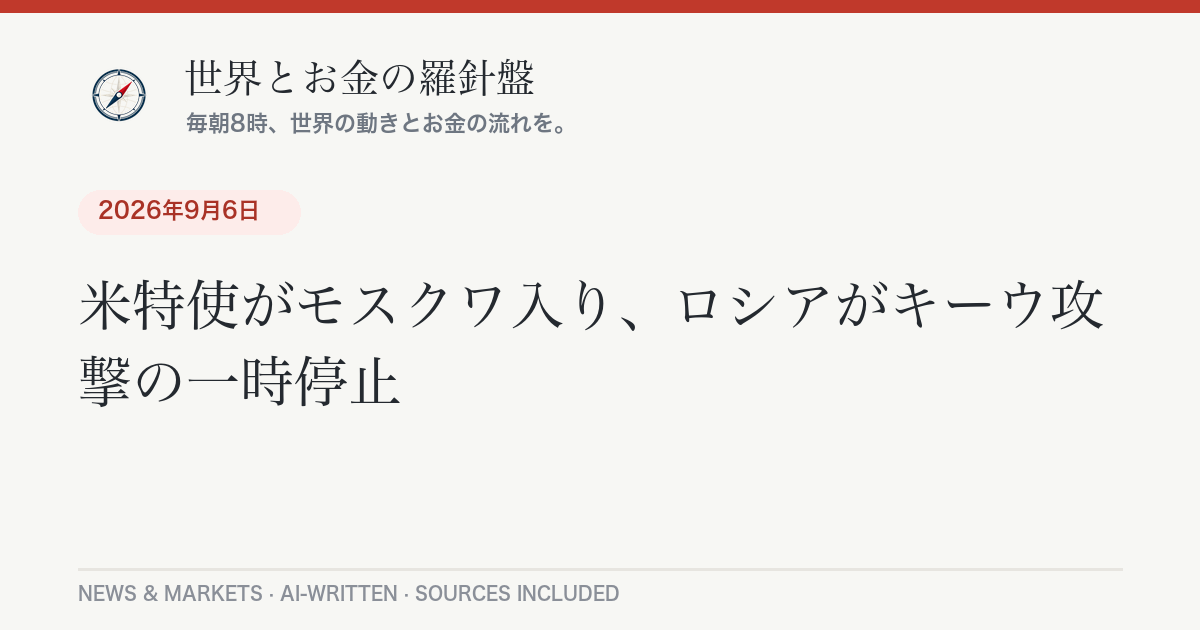
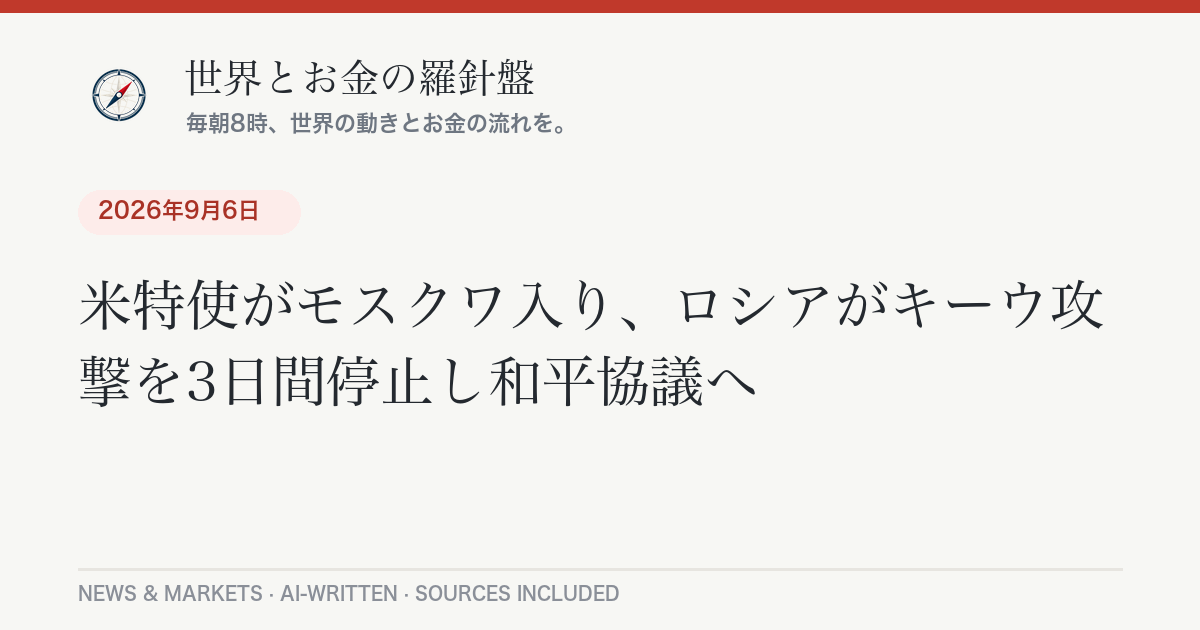
Daily briefing 2026-09-08

Changed region(s): [[0.0925, 0.5429, 0.6167, 0.6635], [0.6167, 0.6032, 0.6475, 0.6333]]

diff --git a/_posts/2026-09-08-daily-briefing.md b/_posts/2026-09-08-daily-briefing.md
@@ -1,0 +1,103 @@
+---
+layout: post
+lang: ja
+title: "日経平均1378円高で6万6400円台、AI半導体株が急伸｜9月8日のニュースとお金"
+date: 2026-09-08 07:46:00 +0900
+categories: [ニュース, 経済]
+headline: "日経平均1378円高で6万6400円台、AI半導体株が急伸"
+permalink: /2026/09/08/daily-briefing/
+---
+
+## 今日のポイント
+
+週明けの東京市場は、AI・半導体関連株がまとめて買われ、日経平均が一日で1378円も上がりました。上げの主役は一部の値がさハイテク株に偏っていて、実は値下がりした銘柄のほうが多かったのが実態です。一方で海の向こうでは、8月の米雇用がふたを開けたら予想の3倍近い伸びで、「アメリカの利下げどころか、次は利上げか」という見方が急に強まっています。中東ではイランによるクウェートの米軍基地への攻撃が続き、原油が上値を試す展開。株高・原油高・金高が同時に起きる、少し落ち着かない朝です。
+
+## 今日の羅針盤（Compass Insight）
+
+きょうの相場を貫くのは「AIブームの綱引き」です。日本株は、米国のメモリー半導体増産報道をきっかけに、キオクシアやソフトバンクグループといったAI関連の代表格へ資金が集中しました。ただ、この上げは全体の底上げではなく「一部の大型株だけが走る」いびつな形で、東証プライムでは値下がり銘柄のほうが多いという事実は覚えておきたいところです。相場の勢いと、あなたの持っている投信・個別株の中身は必ずしも一致しません。
+
+家計への影響で見ておきたいのは二つ。ひとつは為替で、ドル円は1ドル＝154円台と、この半年ほどでは円高寄りの水準に戻ってきました。円高は輸入する食品やガソリン、電気代の上振れをやわらげる方向に働きます。もうひとつは金利です。アメリカの雇用が強く、9月の米利上げ観測が高まると、日本の住宅ローンで増えている変動金利や、これから借りる人の固定金利にもじわりと上押し圧力がかかりえます。
+
+短期では、9月15〜16日の米FOMCと、同じ月に開かれる日銀の会合が最大の注目点。中長期では、AI・半導体の需要が本物かどうかを、決算や設備投資の数字で見極める局面が続きます。「指数が上がった」だけで安心せず、中身を確かめる習慣が役に立ちます。
+
+## 今日のニュース
+
+### 日本
+- 内閣府が4〜6月期のGDP改定値を発表し、物価の影響を除いた実質で年率換算プラス2.2%と、[1次速報の年率プラス1.1%から上方修正](https://www.nikkei.com/article/DGXZQOUA080K90Y5A900C2000000/)されました。個人消費が上振れしたのが主因です。
+- 高市早苗首相が、[9月16〜18日ごろに内閣改造と自民党役員人事を行う方向](https://www.japantimes.co.jp/news/2026/09/05/japan/politics/takaichi-motegi-katayama-cabinet-reshuffle/)で調整に入りました。片山さつき財務相、茂木敏充外相、小泉進次郎防衛相ら主要閣僚は[留任の見通しで「継続性重視」](https://www.bloomberg.com/news/articles/2026-09-07/japan-pm-takaichi-to-prioritize-continuity-in-cabinet-reshuffle)。月内の国連総会出席前に固める狙いです。
+- 前線と暖かく湿った空気の影響で、7日は本州の広い範囲で大雨となり、[土砂災害などへの警戒](https://weathernews.jp/s/news/202609/070051/)が呼びかけられました。
+- トランプ米大統領が4日、[日本車への上乗せ関税を25%から15%に下げる大統領令に署名](https://business.inquirer.net/545324/trump-signs-order-to-lower-us-tariffs-on-japan-autos-to-15)。日本側の5500億ドルの対米投資枠を動かす前提が整いました。自動車株には追い風です。
+
+### 世界
+- イランが3日、[クウェートにある米軍基地に向けてミサイルと無人機で攻撃](https://www.washingtonpost.com/world/2026/09/03/iran-fires-missiles-drones-kuwait-strikes-resume-us-war/)を行い、クウェートの防空部隊が迎撃しました。2日夜にはヨルダン・バーレーン・イラクを含む複数国に約59発を撃ち込んでおり、[4月の停戦後で最大級の攻撃](https://www.criticalthreats.org/analysis/iran-update-september-3-2026)とされています。原油価格の押し上げ要因です。
+- 米特使のウィトコフ、クシュナー両氏がモスクワとキーウを訪れ、[「相当な進展があった」として米ロウの3者協議の再開](https://www.cnn.com/2026/09/06/europe/witkoff-kushner-visit-kyiv-intl)を目指すと表明しました。ただ大きな合意には至らず、[ゼレンスキー大統領は「戦争は続く」との見方](https://kyivindependent.com/us-envoys-witkoff-kushner-arrive-in-ukraine/)を示しています。
+
+### アメリカ
+- 8月の雇用統計で非農業部門の就業者数が[前月比16万2000人増と、市場予想の約5万5000人を大きく上回り](https://www.kiplinger.com/investing/economy/jobs-report-august-2026-what-to-expect)ました。失業率は4.1%で横ばいでした。
+- この強い数字を受け、[9月15〜16日のFOMCで0.25%利上げに動くとの予想が約6割まで上昇](https://www.cnbc.com/2026/09/04/treasurys-bonds-nonfarm-payrolls-unemployment-data.html)（前日は約49%）。2年債利回りは2025年初め以来の高さになりました。
+- 8日は現地が閉場のレーバーデー明け。11月の中間選挙をにらんだ選挙戦が本格化しています。
+
+### ヨーロッパ
+- パリのエッフェル塔が7日、[運営スタッフのストライキで終日閉鎖](https://www.france24.com/en/france/20260907-strike-closes-eiffel-tower-paris-exclusion-female-staff-hindu-group-visit-baps)されました。5日にあったヒンドゥー教団体の貸し切り見学で、女性職員が対応から外されたことに従業員が反発したものです。運営会社は「この条件は受け入れるべきではなかった」と認めました。
+
+## 経済とお金の動き
+
+### 世界の経済と原油・相場
+
+| 指標 | 直近値 | 前日比・前週末比 |
+| --- | --- | --- |
+| 日経平均株価（9/7） | [66,399.84円](https://www.nikkei.com/article/DGXZQOUB062EPTW6A900C2000000/) | <span class="chg-up">+1,378.90円（+2.12%）</span> |
+| TOPIX（9/7） | 4,125.80 | <span class="chg-up">+22.57（+0.55%）</span> |
+| ダウ工業株30種（9/4） | [53,414.25ドル](https://www.cnbc.com/2026/09/04/treasurys-bonds-nonfarm-payrolls-unemployment-data.html) | <span class="chg-down">-271.86ドル（-0.51%）</span> |
+| S&P500（9/4） | 7,718.60 | <span class="chg-down">-0.38%</span> |
+| ナスダック総合（9/4） | 26,506.99 | <span class="chg-down">-0.29%</span> |
+| ドル円 | [154.75円](https://api.frankfurter.app/latest?from=USD&to=JPY) | 円高方向、約半年ぶりの円高水準（ECB基準・9/7） |
+| WTI原油 | [約92ドル/バレル](https://www.vantagemarkets.com/market-analysis/brent-wti-crude-oil-price-september-4-2026/) | <span class="chg-up">中東の供給リスクで週間約9%高</span> |
+| 金（NY） | [約4,412ドル/オンス](https://fortune.com/article/current-price-of-gold-09-03-2026/) | <span class="chg-up">最高値圏で推移</span> |
+
+先週末の米国株は、8月雇用統計の強さで「利上げ再開」への警戒が広がり、主要3指数がそろって下落しました。週明けの東京はその流れに逆らうように大幅高となりましたが、これは米メモリー半導体の増産報道を受けたハイテク株の集中的な買いによるもので、韓国・台湾のハイテク株高も追い風になりました。原油と金が同時に上がっているのは、中東情勢の緊張と、金利の先行き不透明感の両方が意識されているためです。
+
+### アメリカの経済
+
+8月の雇用が予想を大きく上回り、労働市場の底堅さが確認されました。物価が下がりきらないなかでの強い雇用は、FRBにとって「利下げを急ぐ理由がない」どころか「利上げの選択肢」を意識させる材料です。市場では9月会合での0.25%利上げの確率が一気に高まり、短期の国債利回りが上昇しました。株式には重し、ドルには支えとなる構図です。
+
+### 日本の経済
+
+4〜6月期のGDPが年率プラス2.2%へ上方修正され、個人消費の持ち直しが確認されました。日本車への米関税が15%へ下がったことも、輸出企業には安心材料です。ドル円は154円台とこのところの円安局面からはやや円高方向に戻しており、輸入物価の面では家計に追い風。焦点は月内の日銀会合で、追加利上げに動くかどうかが引き続き注目されます。
+
+## 今日の注目銘柄・セクター
+
+- **半導体・AI関連（キオクシア、ソフトバンクグループなど）**：米メモリー大手の増産報道を手がかりに買いが集中。キオクシアは[約8%高](https://newsonjapan.com/article/150650.php)、ソフトバンクグループも大幅高となり、日経平均の上げ幅の大半をこの一角がつくりました。
+- **自動車（トヨタ、ホンダなど）**：米国が日本車への追加関税を25%→15%に引き下げたことで、収益悪化への警戒が和らぎました。為替の円高進行は逆風要因で、綱引きの状態です。
+- **石油・資源関連**：イランによるクウェートの米軍基地攻撃で原油が上値を試し、エネルギー関連が意識されました。
+- **銀行**：米国での利上げ観測と、日銀の追加利上げ観測が重なり、利ざや改善期待から関心が集まりやすい地合いです。
+
+*※特定銘柄の売買を推奨するものではありません。投資判断はご自身の責任で。*
+
+## まとめ：注目の3つ
+
+1. **日本株の「中身」**：日経平均は大幅高でも、上げているのは一部のハイテク株だけ。指数と自分の資産の動きは別物と考える。
+2. **9月の米FOMC（15〜16日）**：予想外に強い雇用で「利上げ」観測が急浮上。住宅ローン金利や円相場への波及に注意。
+3. **中東と原油**：イランの攻撃が続き、原油と金が上昇。ガソリンや光熱費、輸入食品への影響を頭の片隅に。
+
+---
+<div class="post-sources" markdown="1">
+
+**出典：**
+- [日本経済新聞 — 日経平均終値1378円高 半導体買い](https://www.nikkei.com/article/DGXZQOUB062EPTW6A900C2000000/)
+- [News On Japan — Nikkei Jumps 1,378 Points as Chip Shares Lead Rebound](https://newsonjapan.com/article/150650.php)
+- [日本経済新聞 — 4〜6月GDP改定値、年率2.2%増に上方修正](https://www.nikkei.com/article/DGXZQOUA080K90Y5A900C2000000/)
+- [The Japan Times — Takaichi seen retaining foreign and finance ministers in Cabinet reshuffle](https://www.japantimes.co.jp/news/2026/09/05/japan/politics/takaichi-motegi-katayama-cabinet-reshuffle/)
+- [Bloomberg — Japan PM Takaichi to Prioritize Continuity in Cabinet Reshuffle](https://www.bloomberg.com/news/articles/2026-09-07/japan-pm-takaichi-to-prioritize-continuity-in-cabinet-reshuffle)
+- [Inquirer — Trump signs order to lower US tariffs on Japan autos to 15%](https://business.inquirer.net/545324/trump-signs-order-to-lower-us-tariffs-on-japan-autos-to-15)
+- [CNBC — 2-year yield rises after hot jobs report boosts Fed rate-hike expectations](https://www.cnbc.com/2026/09/04/treasurys-bonds-nonfarm-payrolls-unemployment-data.html)
+- [Kiplinger — What a Blowout August Jobs Report Means for a September Rate Hike](https://www.kiplinger.com/investing/economy/jobs-report-august-2026-what-to-expect)
+- [The Washington Post — Iran fires missiles, drones at Kuwait as strikes resume in U.S. war](https://www.washingtonpost.com/world/2026/09/03/iran-fires-missiles-drones-kuwait-strikes-resume-us-war/)
+- [CNN — Witkoff confident of 'good resolution' after Kyiv meeting](https://www.cnn.com/2026/09/06/europe/witkoff-kushner-visit-kyiv-intl)
+- [France 24 — Eiffel Tower workers go on strike after female staff 'sidelined'](https://www.france24.com/en/france/20260907-strike-closes-eiffel-tower-paris-exclusion-female-staff-hindu-group-visit-baps)
+- [ウェザーニュース — 9月7日 本州で大雨に警戒](https://weathernews.jp/s/news/202609/070051/)
+- 市場データ: [frankfurter API](https://api.frankfurter.app/)（ドル円・ECB基準、9/7）／ Yahoo Finance ／ [Fortune 金価格](https://fortune.com/article/current-price-of-gold-09-03-2026/) ／ [Vantage 原油分析](https://www.vantagemarkets.com/market-analysis/brent-wti-crude-oil-price-september-4-2026/)
+
+*本記事は公開情報をもとに作成しています。*
+
+</div>

diff --git a/_posts/2026-09-08-daily-briefing-en.md b/_posts/2026-09-08-daily-briefing-en.md
@@ -1,0 +1,51 @@
+---
+layout: post
+lang: en
+title: "Hot August jobs report pushes Fed rate-hike odds to 60% — September 8, 2026"
+date: 2026-09-08 07:46:00 +0900
+headline: "Hot August jobs report pushes Fed rate-hike odds to 60%"
+permalink: /2026/09/08/daily-briefing/
+---
+
+## Top U.S. Stories
+
+- **August payrolls blow past expectations.** U.S. employers added [162,000 jobs in August, nearly triple the roughly 55,000 economists expected](https://www.kiplinger.com/investing/economy/jobs-report-august-2026-what-to-expect). The unemployment rate held at 4.1%.
+  *Why it matters:* With inflation still sticky, a strong labor market removes the case for near-term easing and puts a rate **hike** back on the table. Futures now price [about a 60% chance of a quarter-point increase at the September 15–16 FOMC](https://www.cnbc.com/2026/09/04/treasurys-bonds-nonfarm-payrolls-unemployment-data.html), up from roughly 49% a day earlier.
+- **Markets slipped Friday, then closed for Labor Day.** The Dow fell [271.86 points (0.51%) to 53,414.25](https://www.cnbc.com/2026/09/04/treasurys-bonds-nonfarm-payrolls-unemployment-data.html), the S&P 500 lost 0.38% to 7,718.60 and the Nasdaq eased 0.29% to 26,506.99. Bond markets did the talking: the 2-year Treasury yield jumped to its highest since early 2025.
+- **Trade: tariffs on Japanese cars cut to 15%.** President Trump signed an [executive order on Sept. 4 lowering the added auto tariff from 25% to 15%](https://business.inquirer.net/545324/trump-signs-order-to-lower-us-tariffs-on-japan-autos-to-15), clearing the way for Japan's $550 billion U.S. investment pledge.
+  *Why it matters:* It lowers costs for a major import category and is a template for how the administration is settling its 2026 tariff disputes.
+- **Middle East strikes keep pressuring oil.** Iran launched [missiles and drones at U.S. bases in Kuwait on Sept. 3](https://www.washingtonpost.com/world/2026/09/03/iran-fires-missiles-drones-kuwait-strikes-resume-us-war/), part of its largest barrage since the April ceasefire. WTI is trading near $92 a barrel and Brent above $97.
+- **Ukraine diplomacy inches forward.** U.S. envoys Steve Witkoff and Jared Kushner reported ["significant progress" after weekend meetings in Moscow and Kyiv](https://www.cnn.com/2026/09/06/europe/witkoff-kushner-visit-kyiv-intl) and are working to schedule trilateral talks, though no breakthrough emerged.
+- **Campaign season opens.** Labor Day marks the traditional start of the sprint to the November midterms.
+
+## Compass Insight
+
+The through-line today is a tug-of-war over the AI trade and the direction of Fed policy. Wall Street sold off Friday on a hot jobs print, yet Asia roared back Monday on a U.S. memory-chip expansion report — Japan's Nikkei jumped 2.1% even as breadth stayed negative. That split matters: index gains are being manufactured by a handful of mega-cap names, not a broad advance. For the near term, watch the Sept. 15–16 FOMC; a rate hike, once unthinkable this cycle, is now close to a coin flip and would ripple into mortgage rates, the dollar and richly valued growth stocks. Longer term, the question is whether AI and semiconductor demand is durable enough to justify current multiples — something only earnings and capex figures can answer. Oil and gold rising together signal that markets are hedging both geopolitical risk and policy uncertainty at once. Not investment advice, but a reminder to check what you actually own.
+
+## Markets
+
+Friday's close: Dow 53,414.25 (-0.51%), S&P 500 7,718.60 (-0.38%), Nasdaq 26,506.99 (-0.29%); U.S. markets were shut Monday for Labor Day. The dollar eased, with USD/JPY around [154.75](https://api.frankfurter.app/latest?from=USD&to=JPY) (ECB reference, Sept. 7). WTI crude is near [$92 a barrel](https://www.vantagemarkets.com/market-analysis/brent-wti-crude-oil-price-september-4-2026/) after a roughly 9% weekly gain, and gold is holding near record territory around [$4,412 an ounce](https://fortune.com/article/current-price-of-gold-09-03-2026/). Overseas, Japan's Nikkei 225 surged [1,378.90 points (2.12%) to 66,399.84](https://newsonjapan.com/article/150650.php) on semiconductor buying.
+
+## Stocks in Focus
+
+- **Semiconductors and AI names** led global gains after a report that a major U.S. memory maker would expand advanced-chip output; Japanese suppliers such as Kioxia rose sharply.
+- **Automakers** are in focus on both sides of the Pacific after the U.S. cut its tariff on Japanese cars to 15%.
+- **Energy** shares tracked crude higher as Middle East supply risk persisted.
+
+*Information only — not a recommendation to buy or sell any security.*
+
+---
+<div class="post-sources" markdown="1">
+
+**Sources:**
+- [Kiplinger — What a Blowout August Jobs Report Means for a September Rate Hike](https://www.kiplinger.com/investing/economy/jobs-report-august-2026-what-to-expect)
+- [CNBC — 2-year yield rises to highest since January 2025 after hot jobs report](https://www.cnbc.com/2026/09/04/treasurys-bonds-nonfarm-payrolls-unemployment-data.html)
+- [Inquirer — Trump signs order to lower US tariffs on Japan autos to 15%](https://business.inquirer.net/545324/trump-signs-order-to-lower-us-tariffs-on-japan-autos-to-15)
+- [The Washington Post — Iran fires missiles, drones at Kuwait as strikes resume in U.S. war](https://www.washingtonpost.com/world/2026/09/03/iran-fires-missiles-drones-kuwait-strikes-resume-us-war/)
+- [CNN — Witkoff confident of 'good resolution' after Kyiv meeting](https://www.cnn.com/2026/09/06/europe/witkoff-kushner-visit-kyiv-intl)
+- [News On Japan — Nikkei Jumps 1,378 Points as Chip Shares Lead Rebound](https://newsonjapan.com/article/150650.php)
+- Market data: [frankfurter API](https://api.frankfurter.app/) (USD/JPY, ECB reference Sept. 7) / Yahoo Finance / [Fortune gold price](https://fortune.com/article/current-price-of-gold-09-03-2026/) / [Vantage oil analysis](https://www.vantagemarkets.com/market-analysis/brent-wti-crude-oil-price-september-4-2026/)
+
+*Auto-generated and AI-written. Not investment advice.*
+
+</div>
